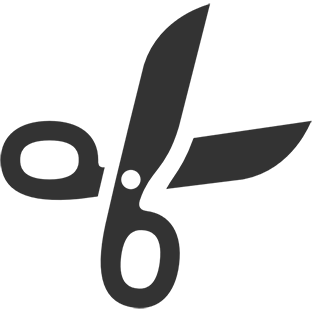
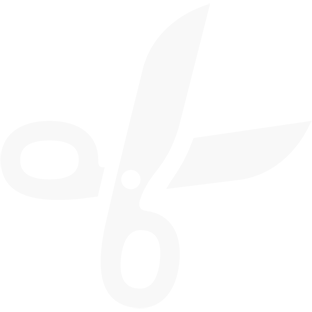
modified colors

Changed region(s): [[0.0, 0.0, 0.6923, 1.0], [0.5192, 0.375, 1.0, 0.6058]]

diff --git a/index.html b/index.html
@@ -54,7 +54,7 @@
     <footer>
         <img class="footer-img" src="Images/share.png">
         <img class="footer-img" src="Images/tw.png">
-        <img class="footer-img" src="Images/ig.png"
+        <img class="footer-img" src="Images/ig.png">
     </footer>
 </div>
 <script  src="validation.js"></script>

diff --git a/style.css b/style.css
@@ -5,12 +5,12 @@
   justify-content: center;
   margin: 0;
   padding: 0;
-  color: black;
+  color: white;
 }
 .container {
   width: 100%;
   height: 100vh;
-  background-color: #efbaef;
+  background-color: #000000;
   background-size: cover;
   background-position: center;
   position: relative;

diff --git a/README.md b/README.md
@@ -1,6 +1,6 @@
-# Rock ☄ | Paper 📄 | Scissors ✂
+# Tic-Tac-Toe
 
-Live version: [🙋♀ Here 🙋♀](https://diana2x.github.io/RPS/)
+Live version: [🙋♀ Here 🙋♀](https://)
 
 ## Built with
 
@@ -10,13 +10,13 @@ Live version: [🙋♀ Here 🙋♀](https://diana2x.github.io/RPS/)
 
 ### About the Project
 
-This is a simple Rock, Paper, Scissors that allows the user to play against the computer.
-The first party to win 5 rounds, will be declared winner.
+This is a tic-tac-toe game, you can play 5 rounds vs the computer.
+are you ready for the challenge?
 
 This a project part of the curriculum for [Javascript - The Odin Project ](https://www.theodinproject.com/) .
 
-![Short preview:](https://i.gyazo.com/80aa18e419a0fa8ec84e7508f212793c.png)
+![Short preview:](https:/)
 
 ### Live Overview:
 
-![Live Demo:](https://media.giphy.com/media/OBLPue9mGgi78WItxT/giphy.gif)
+![Live Demo:](https:)
